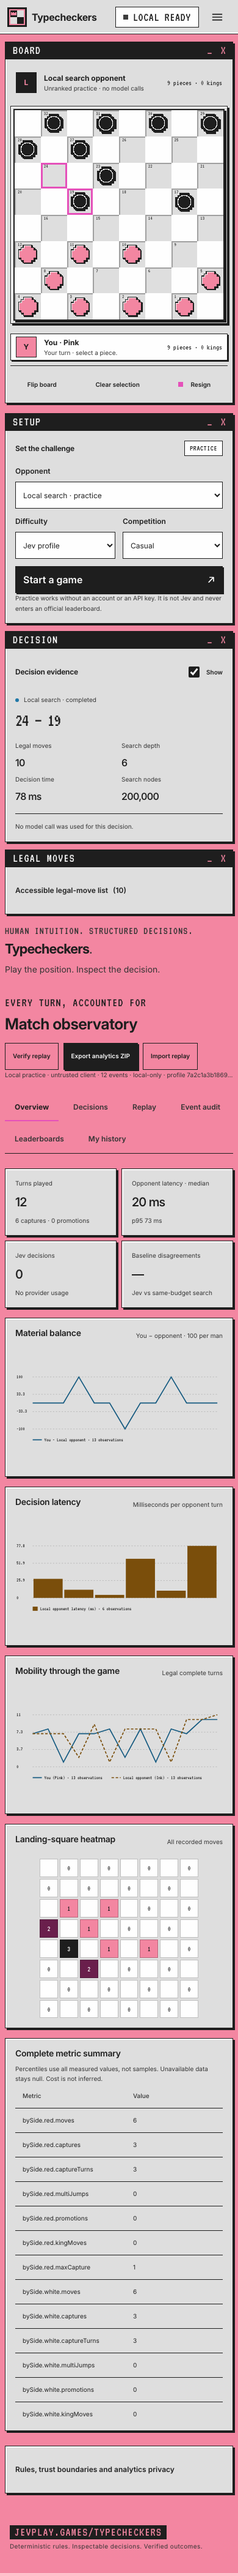
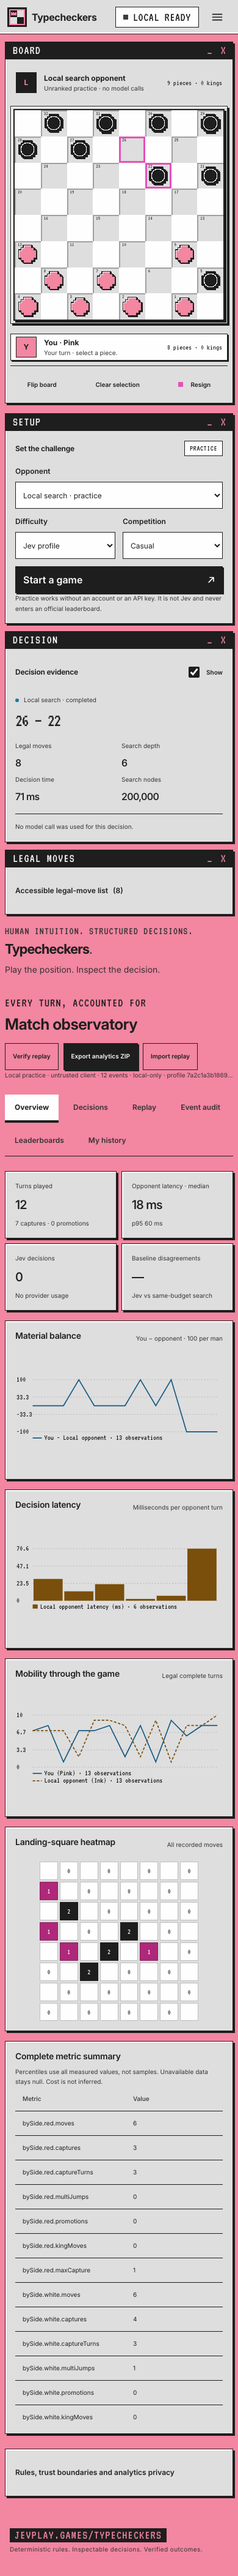
Fix verifier findings: tab indicator, plurals, labels, chart text, Node docs
- Selected analytics tab: 4px ink underline on a paper fill (6.93:1 on pink),
  replacing the 1.40:1 magenta underline
- "1 capture" / "1 promotion" on the Overview card
- After "Continue as local practice" the Setup panel switches to Local search and
  Casual; History shows display labels (Jev, Local search, Casual, Ranked, Jev profile)
- Chart text is 15 user units (about 9px at 768, 10px at 390) with one legend row per
  series; the unused red-king preload (console warning) is removed
- DEPLOYMENT.md and .env.example: serving the old host is Worker-only; on Node its
  writes get 403, so redirect it. ANALYTICS.md: export balances stay Red-relative
- Report previews retaken; SHA256SUMS regenerated

diff --git a/public/game.css b/public/game.css
@@ -8,7 +8,7 @@
 @media(min-width:900px){#jv-controls #login,#jv-controls #logout{border:1px solid var(--line);background:var(--raised);border-radius:var(--radius-sm)}}
 .intro{display:flex;align-items:center;justify-content:space-between;gap:var(--s6);padding:var(--s4) 0 0}.eyebrow{font-family:var(--font-pixel);font-size:var(--fs-md);letter-spacing:var(--track-caps);font-weight:400;color:var(--ink);margin:0 0 var(--s2)}.title-dot{color:var(--ink)}.subtitle{color:var(--muted);margin:0;font-size:var(--fs-sm)}.intro-note{text-align:right;display:flex;flex-direction:column;font-size:var(--fs-xs);color:var(--muted);gap:var(--s1)}.intro-note strong{color:var(--text);font-size:var(--fs-sm);font-weight:500}.tiny-label{font-size:var(--fs-2xs);letter-spacing:.14em}h2{font-size:var(--fs-md);margin:0;font-weight:650;letter-spacing:-.02em}h3{font-size:var(--fs-sm);margin:0 0 var(--s2);font-weight:600}.arena{display:grid;grid-template-columns:minmax(0,1.45fr) minmax(290px,1fr);gap:var(--s5)}.board-panel{padding:var(--s4) var(--s5) var(--s3);min-width:0}.player-strip{display:flex;align-items:center;gap:var(--s3);margin-bottom:var(--s4)}.player-strip strong{display:block;font-size:var(--fs-xs)}.player-strip span:not(.avatar):not(.material-count){display:block;font-size:var(--fs-2xs);color:var(--muted)}.avatar{border:1px solid var(--line);width:34px;height:34px;display:grid;place-items:center;border-radius:var(--radius-sm);font-size:var(--fs-xs);font-weight:bold;flex:none}.opponent-avatar{color:var(--jev);background:color-mix(in srgb,var(--jev) 22%,var(--sunken))}.human-avatar{color:var(--human);background:color-mix(in srgb,var(--human) 22%,var(--sunken))}.material-count{margin-left:auto;color:var(--muted);font-size:var(--fs-2xs);font-family:var(--mono)}
 /* The board fits both axes: never wider than its column, never taller than the viewport remainder. */
-.board-frame{--fit-max:560px;--fit-reserve:250px;--fit-ratio:1;padding:var(--s2)}.board{display:grid;grid-template-columns:repeat(8,1fr);aspect-ratio:1;overflow:hidden;border-radius:0;border:2px solid var(--ink);box-shadow:var(--drop);width:100%;touch-action:manipulation}.board [role=row]{display:contents}.square{aspect-ratio:1;min-width:0;min-height:0;border:0;border-radius:0;padding:0;position:relative;display:grid;place-items:center;font-weight:400;container-type:inline-size}.square .number{position:absolute;left:5px;top:3px;font-size:clamp(6px,16cqw,9px);color:var(--muted);opacity:.8;line-height:1}.bottom{margin:var(--s4) 0 var(--s2)}.board-controls{display:flex;justify-content:space-between;border-top:1px solid var(--line);padding-top:var(--s2);gap:var(--s2);flex-wrap:wrap}.board-controls button{font-size:var(--fs-2xs);padding:var(--s2) var(--s2);min-height:var(--tap);border-color:transparent;flex:1 1 auto}.side-stack{display:flex;flex-direction:column;gap:var(--s4);min-width:0}.side-stack>.jv-panel:last-child{flex-grow:1}.section-heading{display:flex;justify-content:space-between;align-items:center;gap:var(--s4);margin-bottom:var(--s4)}.setup label{margin-top:var(--s3)}.two-columns{display:grid;grid-template-columns:1fr 1fr;gap:var(--s3)}.small{font-size:var(--fs-2xs);line-height:1.65}.muted{color:var(--muted)}.toggle{display:flex;align-items:center;gap:var(--s2);font-size:var(--fs-2xs);margin:0;min-height:var(--tap)}.toggle input{accent-color:var(--accent);width:18px;height:18px}.decision-status{display:flex;gap:var(--s2);align-items:center;color:var(--muted);font-size:var(--fs-2xs)}.status-dot{width:6px;height:6px;background:var(--ok);border-radius:50%;flex:none}.status-dot.busy{animation:pulse 1s infinite}.decision-big{font-family:var(--mono);font-size:clamp(1.375rem,1rem + 1.6vw,2.0625rem);font-weight:500;letter-spacing:-.06em;margin:var(--s2) 0 var(--s4)}.metric-grid{display:grid;grid-template-columns:repeat(4,minmax(0,1fr));gap:var(--s3)}.metric-grid span{display:block;color:var(--muted);font-size:var(--fs-2xs);margin-bottom:var(--s2)}.metric-grid strong{display:block;font-size:clamp(1.25rem,1rem + 1vw,1.625rem);font-weight:550;letter-spacing:-.04em}.metric-grid small{display:block;color:var(--muted);font-size:var(--fs-2xs);margin-top:var(--s2)}.mini{grid-template-columns:repeat(4,1fr);gap:var(--s2)}.mini strong{font-size:var(--fs-md)}.mini span{font-size:var(--fs-2xs)}.factor-list{border-top:1px solid var(--line);margin-top:var(--s4);padding-top:var(--s3)}.factor-row{display:grid;grid-template-columns:minmax(72px,100px) 1fr 40px;gap:var(--s2);align-items:center;font-size:var(--fs-2xs);margin:var(--s2) 0}.factor-row meter{width:100%;height:7px;accent-color:var(--accent)}summary{cursor:pointer;min-height:var(--tap);display:flex;align-items:center;gap:var(--s2);font-size:var(--fs-xs);font-weight:600}.legal-panel{padding:var(--s4) var(--s5)}.legal-moves{display:flex;gap:var(--s2);flex-wrap:wrap;margin-top:var(--s3)}.legal-moves button{font:12px var(--mono);min-height:var(--tap)}.notice{padding:var(--s3) var(--s4);border:1px solid var(--ink);border-left:6px solid var(--warn);color:var(--ink);background:var(--paper);box-shadow:var(--drop-sm);border-radius:var(--radius-sm);font-size:var(--fs-xs)}.analytics-section{margin-top:var(--s5)}.analytics-heading{display:flex;justify-content:space-between;gap:var(--s4);align-items:center;flex-wrap:wrap}.analytics-heading h2{font-size:var(--fs-2xl)}.toolbar{display:flex;gap:var(--s2);align-items:center;flex-wrap:wrap}.toolbar button,.toolbar .button{font-size:var(--fs-2xs);min-height:var(--tap);padding:var(--s2) var(--s3)}.toolbar label{margin:0}.toolbar select{width:auto}.tabs{display:flex;gap:var(--s2);border-bottom:1px solid var(--line);margin:var(--s5) 0;overflow-x:auto}.tabs button{flex:none;border:0;border-bottom:2px solid transparent;border-radius:0;background:none;padding:var(--s3) var(--s4);color:var(--muted);font-size:var(--fs-xs);white-space:nowrap;min-height:var(--tap)}.tabs button[aria-selected=true]{border-color:var(--magenta);color:var(--ink);font-weight:700}.summary-metrics .jv-panel{padding:var(--s4)}.chart-grid{display:grid;grid-template-columns:1fr 1fr;gap:var(--s4);margin:var(--s4) 0}.chart-panel{min-width:0}.chart{height:clamp(150px,22vh,190px);width:100%}.chart svg{width:100%;height:100%;overflow:visible}.chart .grid-line{stroke:var(--line-soft);stroke-dasharray:3 4}.chart .chart-line{fill:none;stroke:var(--chart-human);stroke-width:2.5}.chart .chart-line.secondary{stroke:var(--chart-jev);stroke-dasharray:6 4}.chart text{fill:var(--ink);font:10px var(--mono)}.chart .bar{fill:var(--chart-human)}.chart .bar.secondary{fill:var(--chart-jev)}.empty-chart{display:grid;place-items:center;height:100%;border:1px dashed var(--line);border-radius:var(--radius-sm);color:var(--muted);font-size:var(--fs-xs)}.heatmap{display:grid;grid-template-columns:repeat(8,1fr);gap:3px;width:100%;max-width:min(100%,260px);margin:auto}.heat-cell{aspect-ratio:1;display:grid;place-items:center;font:10px var(--mono);border-radius:0;background:var(--paper);color:var(--ink);border:1px solid var(--line-soft)}.heat-cell.blank{background:var(--sunken)}.heat-cell.heat-1{background:#FBE3EA}.heat-cell.heat-2{background:#F386A1}.heat-cell.heat-3{background:#B0287A;color:var(--paper)}.heat-cell.heat-4{background:#6A1F4C;color:var(--paper)}.heat-cell.heat-5{background:var(--ink);color:var(--paper)}.table-scroll{overflow:auto;max-height:min(70dvh,550px)}table{border-collapse:collapse;width:100%;font-size:var(--fs-2xs);text-align:left}th{color:var(--muted);font-weight:500;white-space:nowrap}th,td{padding:var(--s3) var(--s3);border-bottom:1px solid var(--line)}tr.selected td{background:#FBE3EA;color:var(--ink);font-weight:700}td.numeric{font-family:var(--mono)}td button{font-size:var(--fs-2xs);min-height:var(--tap);padding:4px var(--s2)}pre{font:11px/1.7 var(--mono);overflow:auto;max-height:min(60dvh,440px);white-space:pre-wrap;overflow-wrap:anywhere;background:var(--sunken);border:1px solid var(--line);padding:var(--s4);border-radius:var(--radius-sm)}#decision-select{max-width:270px}#event-filter{max-width:310px}.replay-layout{display:grid;grid-template-columns:minmax(0,380px) 1fr;gap:var(--s6);margin-top:var(--s4)}.readonly .square{pointer-events:none}.readonly .piece.king:before{font-size:clamp(12px,50cqw,22px)}input[type=range]{width:100%;accent-color:var(--accent);min-height:var(--tap)}.rules{margin-top:var(--s2)}.rules-grid{display:grid;grid-template-columns:repeat(3,1fr);gap:var(--s5);margin-top:var(--s4)}.rules p{font-size:var(--fs-xs);color:var(--muted)}footer{width:100%;max-width:var(--shell);margin:auto;padding:var(--s5) var(--s4) calc(2.25rem + var(--sa-b));display:flex;justify-content:space-between;gap:var(--s3);color:var(--muted);font-size:var(--fs-2xs);letter-spacing:.04em}[hidden]{display:none!important}@keyframes pulse{50%{opacity:.3}}
+.board-frame{--fit-max:560px;--fit-reserve:250px;--fit-ratio:1;padding:var(--s2)}.board{display:grid;grid-template-columns:repeat(8,1fr);aspect-ratio:1;overflow:hidden;border-radius:0;border:2px solid var(--ink);box-shadow:var(--drop);width:100%;touch-action:manipulation}.board [role=row]{display:contents}.square{aspect-ratio:1;min-width:0;min-height:0;border:0;border-radius:0;padding:0;position:relative;display:grid;place-items:center;font-weight:400;container-type:inline-size}.square .number{position:absolute;left:5px;top:3px;font-size:clamp(6px,16cqw,9px);color:var(--muted);opacity:.8;line-height:1}.bottom{margin:var(--s4) 0 var(--s2)}.board-controls{display:flex;justify-content:space-between;border-top:1px solid var(--line);padding-top:var(--s2);gap:var(--s2);flex-wrap:wrap}.board-controls button{font-size:var(--fs-2xs);padding:var(--s2) var(--s2);min-height:var(--tap);border-color:transparent;flex:1 1 auto}.side-stack{display:flex;flex-direction:column;gap:var(--s4);min-width:0}.side-stack>.jv-panel:last-child{flex-grow:1}.section-heading{display:flex;justify-content:space-between;align-items:center;gap:var(--s4);margin-bottom:var(--s4)}.setup label{margin-top:var(--s3)}.two-columns{display:grid;grid-template-columns:1fr 1fr;gap:var(--s3)}.small{font-size:var(--fs-2xs);line-height:1.65}.muted{color:var(--muted)}.toggle{display:flex;align-items:center;gap:var(--s2);font-size:var(--fs-2xs);margin:0;min-height:var(--tap)}.toggle input{accent-color:var(--accent);width:18px;height:18px}.decision-status{display:flex;gap:var(--s2);align-items:center;color:var(--muted);font-size:var(--fs-2xs)}.status-dot{width:6px;height:6px;background:var(--ok);border-radius:50%;flex:none}.status-dot.busy{animation:pulse 1s infinite}.decision-big{font-family:var(--mono);font-size:clamp(1.375rem,1rem + 1.6vw,2.0625rem);font-weight:500;letter-spacing:-.06em;margin:var(--s2) 0 var(--s4)}.metric-grid{display:grid;grid-template-columns:repeat(4,minmax(0,1fr));gap:var(--s3)}.metric-grid span{display:block;color:var(--muted);font-size:var(--fs-2xs);margin-bottom:var(--s2)}.metric-grid strong{display:block;font-size:clamp(1.25rem,1rem + 1vw,1.625rem);font-weight:550;letter-spacing:-.04em}.metric-grid small{display:block;color:var(--muted);font-size:var(--fs-2xs);margin-top:var(--s2)}.mini{grid-template-columns:repeat(4,1fr);gap:var(--s2)}.mini strong{font-size:var(--fs-md)}.mini span{font-size:var(--fs-2xs)}.factor-list{border-top:1px solid var(--line);margin-top:var(--s4);padding-top:var(--s3)}.factor-row{display:grid;grid-template-columns:minmax(72px,100px) 1fr 40px;gap:var(--s2);align-items:center;font-size:var(--fs-2xs);margin:var(--s2) 0}.factor-row meter{width:100%;height:7px;accent-color:var(--accent)}summary{cursor:pointer;min-height:var(--tap);display:flex;align-items:center;gap:var(--s2);font-size:var(--fs-xs);font-weight:600}.legal-panel{padding:var(--s4) var(--s5)}.legal-moves{display:flex;gap:var(--s2);flex-wrap:wrap;margin-top:var(--s3)}.legal-moves button{font:12px var(--mono);min-height:var(--tap)}.notice{padding:var(--s3) var(--s4);border:1px solid var(--ink);border-left:6px solid var(--warn);color:var(--ink);background:var(--paper);box-shadow:var(--drop-sm);border-radius:var(--radius-sm);font-size:var(--fs-xs)}.analytics-section{margin-top:var(--s5)}.analytics-heading{display:flex;justify-content:space-between;gap:var(--s4);align-items:center;flex-wrap:wrap}.analytics-heading h2{font-size:var(--fs-2xl)}.toolbar{display:flex;gap:var(--s2);align-items:center;flex-wrap:wrap}.toolbar button,.toolbar .button{font-size:var(--fs-2xs);min-height:var(--tap);padding:var(--s2) var(--s3)}.toolbar label{margin:0}.toolbar select{width:auto}.tabs{display:flex;gap:var(--s2);border-bottom:1px solid var(--line);margin:var(--s5) 0;overflow-x:auto}.tabs button{flex:none;border:0;border-bottom:4px solid transparent;border-radius:0;background:none;padding:var(--s3) var(--s4);color:var(--muted);font-size:var(--fs-xs);white-space:nowrap;min-height:var(--tap)}.tabs button[aria-selected=true]{border-bottom:4px solid var(--ink);background:var(--paper);color:var(--ink);font-weight:700}.summary-metrics .jv-panel{padding:var(--s4)}.chart-grid{display:grid;grid-template-columns:1fr 1fr;gap:var(--s4);margin:var(--s4) 0}.chart-panel{min-width:0}.chart{height:clamp(150px,22vh,190px);width:100%}.chart svg{width:100%;height:100%;overflow:visible}.chart .grid-line{stroke:var(--line-soft);stroke-dasharray:3 4}.chart .chart-line{fill:none;stroke:var(--chart-human);stroke-width:2.5}.chart .chart-line.secondary{stroke:var(--chart-jev);stroke-dasharray:6 4}.chart text{fill:var(--ink);font:15px var(--mono)}.chart .bar{fill:var(--chart-human)}.chart .bar.secondary{fill:var(--chart-jev)}.empty-chart{display:grid;place-items:center;height:100%;border:1px dashed var(--line);border-radius:var(--radius-sm);color:var(--muted);font-size:var(--fs-xs)}.heatmap{display:grid;grid-template-columns:repeat(8,1fr);gap:3px;width:100%;max-width:min(100%,260px);margin:auto}.heat-cell{aspect-ratio:1;display:grid;place-items:center;font:10px var(--mono);border-radius:0;background:var(--paper);color:var(--ink);border:1px solid var(--line-soft)}.heat-cell.blank{background:var(--sunken)}.heat-cell.heat-1{background:#FBE3EA}.heat-cell.heat-2{background:#F386A1}.heat-cell.heat-3{background:#B0287A;color:var(--paper)}.heat-cell.heat-4{background:#6A1F4C;color:var(--paper)}.heat-cell.heat-5{background:var(--ink);color:var(--paper)}.table-scroll{overflow:auto;max-height:min(70dvh,550px)}table{border-collapse:collapse;width:100%;font-size:var(--fs-2xs);text-align:left}th{color:var(--muted);font-weight:500;white-space:nowrap}th,td{padding:var(--s3) var(--s3);border-bottom:1px solid var(--line)}tr.selected td{background:#FBE3EA;color:var(--ink);font-weight:700}td.numeric{font-family:var(--mono)}td button{font-size:var(--fs-2xs);min-height:var(--tap);padding:4px var(--s2)}pre{font:11px/1.7 var(--mono);overflow:auto;max-height:min(60dvh,440px);white-space:pre-wrap;overflow-wrap:anywhere;background:var(--sunken);border:1px solid var(--line);padding:var(--s4);border-radius:var(--radius-sm)}#decision-select{max-width:270px}#event-filter{max-width:310px}.replay-layout{display:grid;grid-template-columns:minmax(0,380px) 1fr;gap:var(--s6);margin-top:var(--s4)}.readonly .square{pointer-events:none}.readonly .piece.king:before{font-size:clamp(12px,50cqw,22px)}input[type=range]{width:100%;accent-color:var(--accent);min-height:var(--tap)}.rules{margin-top:var(--s2)}.rules-grid{display:grid;grid-template-columns:repeat(3,1fr);gap:var(--s5);margin-top:var(--s4)}.rules p{font-size:var(--fs-xs);color:var(--muted)}footer{width:100%;max-width:var(--shell);margin:auto;padding:var(--s5) var(--s4) calc(2.25rem + var(--sa-b));display:flex;justify-content:space-between;gap:var(--s3);color:var(--muted);font-size:var(--fs-2xs);letter-spacing:.04em}[hidden]{display:none!important}@keyframes pulse{50%{opacity:.3}}
 @media(min-width:1280px){.board-panel{padding:var(--s4) var(--s6) var(--s3)}}
 @media(max-width:899px){.arena{gap:var(--s4);grid-template-columns:minmax(0,1.2fr) minmax(240px,1fr)}.board-panel{padding:var(--s4)}.mini{grid-template-columns:1fr 1fr}.intro-note{display:none}.analytics-heading{align-items:flex-start;flex-direction:column}.metric-grid{gap:var(--s2)}.rules-grid{grid-template-columns:1fr}.board-controls button{padding:var(--s1);font-size:var(--fs-2xs)}}
 @media(max-width:600px){.arena{grid-template-columns:1fr}.tabs{flex-wrap:wrap}.side-stack{display:grid;grid-template-columns:1fr;gap:var(--s3)}.intro{padding:0}.board-frame{--fit-reserve:260px}.board-panel{padding:var(--s3)}.decision-big{font-size:var(--fs-num-sm)}.two-columns{grid-template-columns:1fr 1fr;gap:var(--s3)}.setup select{font-size:var(--fs-xs)}.side-stack .jv-panel{padding:var(--s4)}.side-stack h2{font-size:var(--fs-xs)}.setup .section-heading{flex-wrap:wrap;gap:var(--s1)}.setup .small{font-size:var(--fs-2xs)}.metric-grid.summary-metrics{grid-template-columns:1fr 1fr}.chart-grid{grid-template-columns:1fr}.replay-layout{grid-template-columns:1fr}.rules-grid{gap:var(--s2)}footer{display:block}footer span{display:block;margin-top:var(--s1)}.analytics-section{margin-top:var(--s4)}.section-heading{flex-wrap:wrap}.player-strip strong{font-size:var(--fs-xs)}}

diff --git a/public/game.js b/public/game.js
@@ -8,6 +8,9 @@ const $=id=>document.getElementById(id),number=n=>Number.isFinite(n)?Intl.Number
 const ms=n=>Number.isFinite(n)?n>=1000?`${(n/1000).toFixed(2)} s`:`${Math.round(n)} ms`:'—';
 const moveName=id=>id?.replace(/^[mj]:/,'').replaceAll('x',' × ').replaceAll('-',' – ')||'—';
 const plural=(n,word)=>`${n} ${word}${n===1?'':'s'}`;
+// Display labels for stored ids (history rows print these, never the raw ids).
+const LABELS={opponent:{jev:'Jev',local:'Local search'},mode:{casual:'Casual',ranked:'Ranked'},difficulty:{easy:'Easy',normal:'Normal',hard:'Hard',jev:'Jev profile'}};
+const label=(kind,id)=>LABELS[kind][id]??id;
 function element(tag,text,className){const e=document.createElement(tag);if(text!==undefined)e.textContent=text;if(className)e.className=className;return e;}
 function stored(key,fallback=null){try{const data=localStorage.getItem(key);return data?JSON.parse(data):fallback;}catch{return fallback;}}
 function store(key,value){try{localStorage.setItem(key,JSON.stringify(value));return true;}catch{return false;}}
@@ -195,16 +198,17 @@ function svgNode(tag,attributes={},text){const e=document.createElementNS(svgNS,
 function chart(target,series,label,bars=false){
   target.replaceChildren();const values=series.flatMap(s=>s.values).filter(Number.isFinite);
   if(!values.length){target.append(element('div','Metrics appear as the game progresses.','empty-chart'));return;}
-  const svg=svgNode('svg',{viewBox:'0 0 500 180',role:'img','aria-label':label});svg.append(svgNode('title',{},label));
+  const svg=svgNode('svg',{viewBox:`0 0 500 ${series.length>1?192:180}`,role:'img','aria-label':label});svg.append(svgNode('title',{},label));
   let min=Math.min(0,...values),max=Math.max(1,...values);if(min===max)max=min+1;
   const width=445,height=125,left=42,top=12,y=v=>top+height-(v-min)/(max-min)*height;
-  for(let i=0;i<4;i++){const value=min+(max-min)*i/3;svg.append(svgNode('line',{x1:left,x2:left+width,y1:y(value),y2:y(value),class:'grid-line'}),svgNode('text',{x:3,y:y(value)+3},number(value)));}
+  for(let i=0;i<4;i++){const value=min+(max-min)*i/3;svg.append(svgNode('line',{x1:left,x2:left+width,y1:y(value),y2:y(value),class:'grid-line'}),svgNode('text',{x:3,y:y(value)+5},number(value)));}
   for(const [s,entry]of series.entries()){
     const n=entry.values.length,x=i=>left+(n>1?i/(n-1):.5)*width;
     if(bars){const step=width/Math.max(1,n);entry.values.forEach((v,i)=>{const bar=svgNode('rect',{x:left+i*step+2,y:y(v),width:Math.max(1,step-4),height:Math.max(1,y(0)-y(v)),class:`bar${entry.opponent?' secondary':''}`});bar.append(svgNode('title',{},`${entry.name} ${i+1}: ${number(v)}`));svg.append(bar);});}
     else{const p=entry.values.map((v,i)=>`${i?'L':'M'}${x(i)},${y(v)}`).join(' ');svg.append(svgNode('path',{d:p,class:`chart-line${entry.opponent?' secondary':''}`}));if(n===1)svg.append(svgNode('circle',{cx:x(0),cy:y(entry.values[0]),r:3,class:`bar${entry.opponent?' secondary':''}`}));}
     // Legend: a swatch drawn like its series (solid, dashed or a bar) so colour is not the only cue; the label is ink.
-    const lx=left+s*190;svg.append(bars?svgNode('rect',{x:lx,y:158,width:12,height:10,class:`bar legend-swatch${entry.opponent?' secondary':''}`}):svgNode('line',{x1:lx,x2:lx+22,y1:163,y2:163,class:`chart-line legend-swatch${entry.opponent?' secondary':''}`}),svgNode('text',{x:lx+(bars?18:28),y:166},`${entry.name} · ${plural(entry.values.length,'observation')}`));
+    // One legend row per series: chart text is 15 user units (readable at about 9px when the chart is 300px wide).
+    const lx=left,ly=156+s*18;svg.append(bars?svgNode('rect',{x:lx,y:ly-10,width:12,height:10,class:`bar legend-swatch${entry.opponent?' secondary':''}`}):svgNode('line',{x1:lx,x2:lx+22,y1:ly-4,y2:ly-4,class:`chart-line legend-swatch${entry.opponent?' secondary':''}`}),svgNode('text',{x:lx+(bars?18:28),y:ly},`${entry.name} · ${plural(entry.values.length,'observation')}`));
   }target.append(svg);
 }
 function renderAnalytics(){
@@ -212,7 +216,7 @@ function renderAnalytics(){
   if(!r){$('audit-status').textContent='No match recorded yet. Local records are untrusted; official scores require server verification.';return;}
   analytics=analyzeReplay(r);const a=analytics;
   $('audit-status').textContent=`${imported?'Imported record':r.manifest.trust==='trusted_server'?'Server-recorded match':'Local practice · untrusted client'} · ${r.events.length} events · ${r.verification||'not verified'} · profile ${r.manifest.profileHash.slice(0,12)}…`;
-  $('metric-turns').textContent=number(a.turns);$('metric-captures').textContent=`${a.bySide.red.captures+a.bySide.white.captures} captures · ${a.bySide.red.promotions+a.bySide.white.promotions} promotions`;
+  $('metric-turns').textContent=number(a.turns);$('metric-captures').textContent=`${plural(a.bySide.red.captures+a.bySide.white.captures,'capture')} · ${plural(a.bySide.red.promotions+a.bySide.white.promotions,'promotion')}`;
   $('metric-latency').textContent=ms(a.timing.opponent.p50);$('metric-p95').textContent=`p95 ${ms(a.timing.opponent.p95)}`;
   $('metric-calls').textContent=number(a.jev.decisions);$('metric-tokens').textContent=a.jev.calls?`${number(a.jev.inputTokens)} input tokens · ${a.jev.calls} attempts`:'No provider usage';
   $('metric-changed').textContent=a.jev.changedRate===null?'—':`${(100*a.jev.changedRate).toFixed(1)}%`;
@@ -283,8 +287,8 @@ async function loadLeaderboard(more=false){
 }
 async function loadHistory(){
   const local=stored(HISTORY_KEY,[]),rows=[];
-  for(const r of local){const b=element('button','Inspect');b.onclick=()=>{imported=r;renderAnalytics();showTab('replay');};rows.push(['Local practice',r.manifest.profile.difficulty,r.outcome?.reason||'unfinished',r.events.length,b]);}
-  if(serverOnline)try{const data=await api('/api/analytics/me');for(const m of data.recent){const b=element('button','Inspect');b.onclick=async()=>{try{imported=await api(`/api/matches/${m.id}/replay`);renderAnalytics();showTab('replay');}catch(e){notice(e.message);}};rows.push([`${m.opponent} · ${m.mode}`,m.difficulty,m.status,m.revision,b]);}}catch(error){notice(error.message);}
+  for(const r of local){const b=element('button','Inspect');b.onclick=()=>{imported=r;renderAnalytics();showTab('replay');};rows.push(['Local practice',label('difficulty',r.manifest.profile.difficulty),r.outcome?.reason||'unfinished',r.events.length,b]);}
+  if(serverOnline)try{const data=await api('/api/analytics/me');for(const m of data.recent){const b=element('button','Inspect');b.onclick=async()=>{try{imported=await api(`/api/matches/${m.id}/replay`);renderAnalytics();showTab('replay');}catch(e){notice(e.message);}};rows.push([`${label('opponent',m.opponent)} · ${label('mode',m.mode)}`,label('difficulty',m.difficulty),m.status,m.revision,b]);}}catch(error){notice(error.message);}
   table($('history-table'),['Source','Difficulty','Status','Events','Record'],rows);
 }
 function showTab(name){activeTab=name;for(const tab of document.querySelectorAll('[data-tab]')){const selected=tab.dataset.tab===name;tab.setAttribute('aria-selected',String(selected));tab.tabIndex=selected?0:-1;$(`${tab.dataset.tab}-panel`).hidden=!selected;}
@@ -341,7 +345,9 @@ async function autoStart(serverActiveId){
   try{await startGame();}catch(error){notice(error.message);}
 }
 $('new-game').onclick=startGame;$('resign').onclick=resign;$('flip').onclick=()=>{flip=!flip;renderGame();renderReplay();};
-$('cancel-selection').onclick=()=>{path=[];renderGame();};$('continue-local').onclick=()=>startLocal(state,active.humanSide);
+$('cancel-selection').onclick=()=>{path=[];renderGame();};$('continue-local').onclick=()=>{
+  // The voided game continues as practice, so the Setup panel must describe practice for the next game too.
+  opponentChosen=true;$('opponent').value='local';$('mode').value='casual';applyCapabilities();startLocal(state,active.humanSide);};
 $('analysis-on').onchange=()=>{$('decision-body').hidden=!$('analysis-on').checked;store('jev-analysis-on',$('analysis-on').checked);};
 $('difficulty').onchange=()=>{store('jev-difficulty',$('difficulty').value);if(activeTab==='leaderboard')loadLeaderboard();};
 $('opponent').onchange=()=>{opponentChosen=true;applyCapabilities();};$('telemetry-consent').onchange=()=>store('jev-telemetry-consent',$('telemetry-consent').checked);

diff --git a/public/index.html b/public/index.html
@@ -14,7 +14,7 @@
   <link rel="icon" type="image/png" sizes="32x32" href="/brand/favicon-32.png">
   <link rel="icon" type="image/svg+xml" href="/brand/icon.svg">
   <link rel="apple-touch-icon" href="/brand/apple-touch-icon.png">
-  <link rel="preload" href="/art/red.svg" as="image" type="image/svg+xml"><link rel="preload" href="/art/dark.svg" as="image" type="image/svg+xml"><link rel="preload" href="/art/red-king.svg" as="image" type="image/svg+xml">
+  <link rel="preload" href="/art/red.svg" as="image" type="image/svg+xml"><link rel="preload" href="/art/dark.svg" as="image" type="image/svg+xml">
   <link rel="stylesheet" href="/brand/brand.css">
   <link rel="stylesheet" href="/game.css"><script type="module" src="/brand/brand.js"></script><script type="module" src="/game.js"></script>
 </head>

diff --git a/docs/DEPLOYMENT.md b/docs/DEPLOYMENT.md
@@ -6,15 +6,16 @@ The same `server/worker.js` handler runs as a plain Node app through `scripts/de
 
 - Platform runs `npm run build` (a no-op) and then `npm start`; it injects `PORT`. Production mode is on when `NODE_ENV=production` or `APP_ORIGIN` is https on a non-loopback host (GoDaddy's runtime may not set `NODE_ENV`; loopback or http origins stay local dev). In production the server binds `0.0.0.0` (override with `HOST`) and runs with `APP_ENV=production`, so ranked play, Discord auth and the Activity behave as on Cloudflare.
 - Zip layout: repo root files (`package.json`, `server/`, `public/`, `scripts/`, `migrations/`) plus a root `.env`. No `npm install` is needed (zero runtime dependencies). Requires Node 22.16+.
-- Required env: `NODE_ENV=production`, `APP_ORIGIN=https://typecheckers.jevplay.games` (the request URL is built from it, so CSRF/origin checks and `__Host-` Secure cookies use it regardless of the proxy Host header), `LEGACY_APP_ORIGINS=https://checkers.jevplay.games` until the redirect cutover (see below), `TYPESAFE_API_KEY`, `DISCORD_APPLICATION_ID`, `DISCORD_CLIENT_SECRET`, `DISCORD_PUBLIC_KEY`, `ANALYTICS_ADMIN_TOKEN`. Optional: `HOST`, `DB_PATH`, `GLOBAL_DAILY_MATCH_LIMIT`, `LOG_REQUESTS`, `BUILD_ID`, `TRUST_PROXY=1` (take the client IP from `X-Forwarded-For` for rate limits).
+- Required env: `NODE_ENV=production`, `APP_ORIGIN=https://typecheckers.jevplay.games` (the request URL is built from it, so CSRF/origin checks and `__Host-` Secure cookies use it regardless of the proxy Host header), `TYPESAFE_API_KEY`, `DISCORD_APPLICATION_ID`, `DISCORD_CLIENT_SECRET`, `DISCORD_PUBLIC_KEY`, `ANALYTICS_ADMIN_TOKEN`. Optional: `HOST`, `DB_PATH`, `GLOBAL_DAILY_MATCH_LIMIT`, `LOG_REQUESTS`, `BUILD_ID`, `TRUST_PROXY=1` (take the client IP from `X-Forwarded-For` for rate limits).
 - Database: SQLite file at `.data/typecheckers.sqlite` (or `DB_PATH`; an existing pre-rename `.data/checkers.sqlite` is used while no new file exists), created on start, never inside `public/`. **It lives on ephemeral storage: matches, sessions and leaderboards are lost on redeploy.**
 - The Cloudflare cron (`*/5`) is replaced by the in-process 60-second maintenance timer.
+- **The old hostname is not served as a second origin on Node.** Because every request URL is built from `APP_ORIGIN`, `LEGACY_APP_ORIGINS` has no effect here: pages on `checkers.jevplay.games` would load, but every sign-in write or game move from that host gets 403 ("Origin mismatch"). Leave `LEGACY_APP_ORIGINS` unset on Node and send the old host to the new one with a 301 at the proxy or DNS level. Serving both hosts is Worker-only (below).
 
 ## Checkers → Typecheckers rename (hostnames, Worker, D1)
 
 The game was renamed from Checkers to Typecheckers. `typecheckers.jevplay.games` is canonical; `checkers.jevplay.games` keeps working until the redirect cutover.
 
-- **One Worker, two hosts.** `wrangler.jsonc` attaches both custom domains. `APP_ORIGIN` is the new origin and `LEGACY_APP_ORIGINS` (comma-separated) lists the old one. Each entry must be a bare origin, scheme and host only, such as `https://checkers.jevplay.games` (one trailing slash is tolerated). An entry with credentials, a path, a query, a fragment or a `*` is skipped and logged once as a `legacy_origin_skipped` warning; it never causes an error, and the old host then simply loses its legacy handling. In production only `https:` entries are accepted. A request on a listed origin keeps its own origin for launch links, the OAuth `redirect_uri` and the CSRF origin check, so a signed-in player on the old host stays signed in there. A mutation whose `Origin` names a different host than the one it was sent to is refused. This applies on Cloudflare only: the Node server builds every request URL from `APP_ORIGIN`, so on Node hosting the old host must be a redirect, not a second origin. Both callbacks (`https://typecheckers.jevplay.games/api/auth/discord/callback` and the old one) must be registered as OAuth redirects in the Discord Developer Portal.
+- **One Worker, two hosts.** `wrangler.jsonc` attaches both custom domains. `APP_ORIGIN` is the new origin and `LEGACY_APP_ORIGINS` (comma-separated) lists the old one. Each entry must be a bare origin, scheme and host only, such as `https://checkers.jevplay.games` (one trailing slash is tolerated). An entry with credentials, a path, a query, a fragment or a `*` is skipped and logged once as a `legacy_origin_skipped` warning; it never causes an error, and the old host then simply loses its legacy handling. In production only `https:` entries are accepted. A request on a listed origin keeps its own origin for launch links, the OAuth `redirect_uri` and the CSRF origin check, so a signed-in player on the old host stays signed in there. A mutation whose `Origin` names a different host than the one it was sent to is refused. This is Worker-only: the Node server builds every request URL from `APP_ORIGIN`, so on Node hosting writes from the old host get 403 and the old host must be a redirect, not a second origin (see GoDaddy Node hosting above). Both callbacks (`https://typecheckers.jevplay.games/api/auth/discord/callback` and the old one) must be registered as OAuth redirects in the Discord Developer Portal.
 - **Worker name.** The Worker is now `jev-typecheckers` (was `jev-checkers`). Cloudflare treats a new `name` as a new Worker: the first `wrangler deploy` creates `jev-typecheckers`, and the `checkers.jevplay.games` custom domain has to move to it from `jev-checkers`. After that, delete the old `jev-checkers` Worker so its `*/5` cron does not run maintenance against the same D1 database twice. This was not tried against Cloudflare.
 - **D1.** The database keeps its name `checkers` and its id (owner decision 2026-10-14). Nothing is recreated or migrated. Existing rows keep `gameId:"checkers"` in `manifest_json`; leaderboards do not filter on `gameId`, so standings carry over. The npm `db:*` scripts still name `checkers`.
 - **Cutover.** When the owner approves, add a 301 from `checkers.jevplay.games/*` to `https://typecheckers.jevplay.games/*` that keeps the path and query (a Cloudflare redirect rule, or keep the old custom domain on this Worker and redirect there), then drop `LEGACY_APP_ORIGINS`. Sessions are host-scoped `__Host-` cookies, so players signed in on the old host sign in again on the new one. Browser storage is per-origin: a practice match or local history saved on the old host does not follow the redirect.

diff --git a/docs/ANALYTICS.md b/docs/ANALYTICS.md
@@ -24,7 +24,7 @@ For each color: moves, pieces captured, capture turns, multi-jump turns, promoti
 
 Material values are man=100 and king=175 heuristic units. Material balance and heuristic balance are separate. Neither is a probability or a tournament rating. Mobility is the legal-action count according to the implemented capture rules; a jump chain is one action.
 
-The live charts are drawn from the player's side, whichever colour they play: the material chart plots your material minus your opponent's (positive means you are ahead), and your mobility is the solid line while your opponent's is the dashed one. The interface names the sides after the piece art, pink (moves first) and ink. Replays, exports and leaderboards keep the rules identifiers `red` and `white` (for example `bySide.red`, `redMaterial` and `materialBalance` = red − white), so stored records and analysis scripts are unchanged.
+The live charts are drawn from the player's side, whichever colour they play: the material chart plots your material minus your opponent's (positive means you are ahead), and your mobility is the solid line while your opponent's is the dashed one. The interface names the sides after the piece art, pink (moves first) and ink. Replays, exports and leaderboards keep the rules identifiers `red` and `white` (for example `bySide.red`, `redMaterial` and `materialBalance` = red − white), so stored records and analysis scripts are unchanged. In `positions.csv` and `summary.json`, `materialBalance` and `heuristicBalance` are therefore always from Red's side, whichever side the player had: a game the player won as White (ink) ends with a negative `materialBalance` in the export while the chart shows a positive value. Read `manifest.humanSide` to turn them into the player's view.
 
 ## Timing
 
